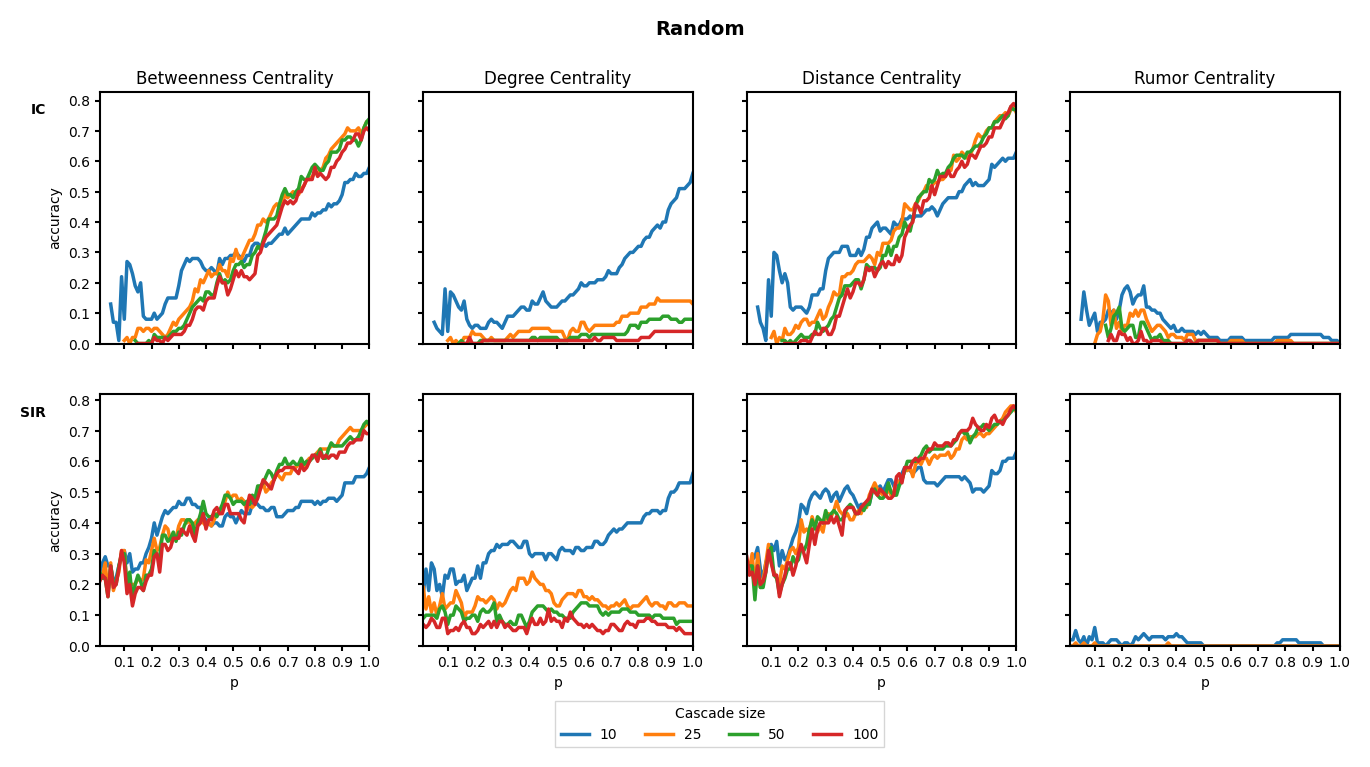
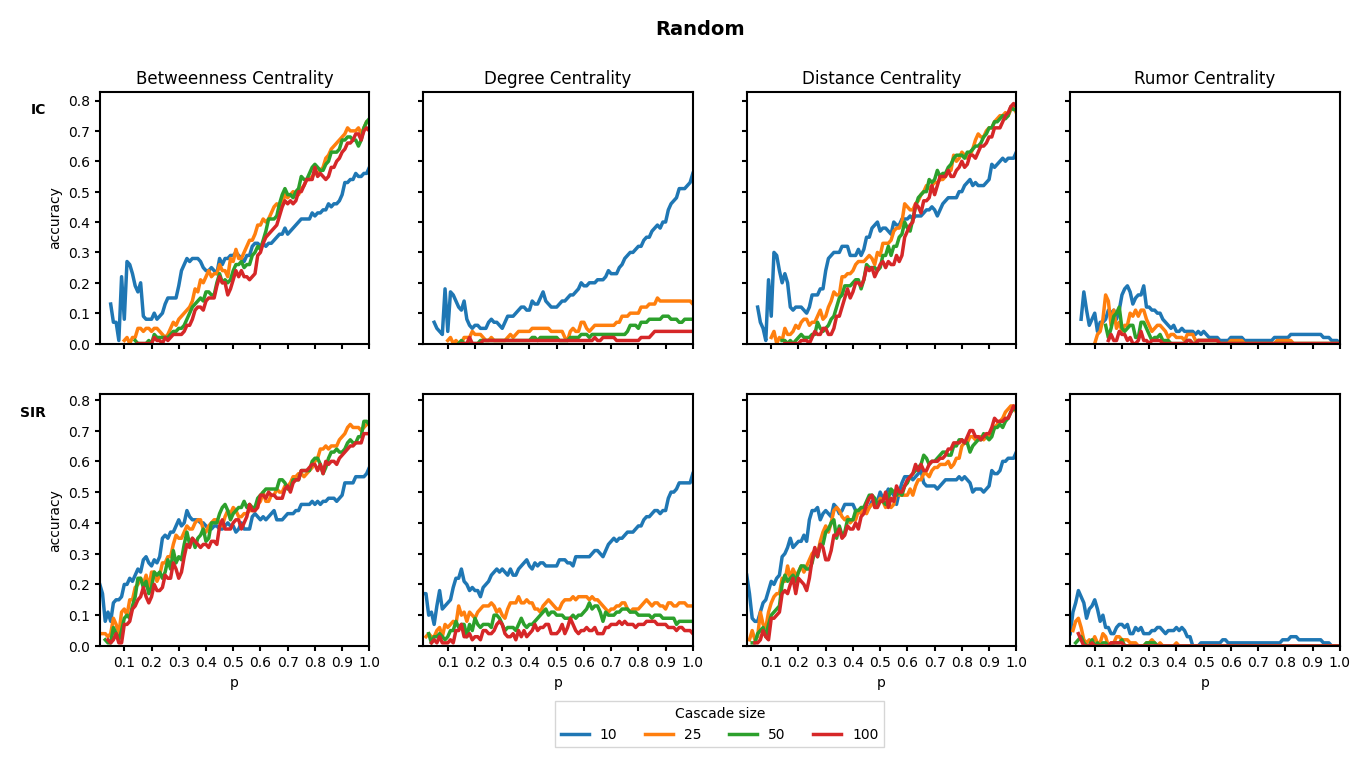
normalize plots

diff --git a/src/patient_zero/experiments/plots.py b/src/patient_zero/experiments/plots.py
@@ -95,9 +95,30 @@ def main():
     ) 
     create_plot(name, index, grouped)
 
+    # Estimate error normalized plots
+    name = "estimate_error_normalized"
+    df["estimate_error_normalized"] = df["estimate_error"] / df["cascade_size_limit"].astype(float)
+    grouped = (
+        df.groupby(["graph_type", "model", "cascade_size_limit", "p_infect", "centrality"])[name]
+        .mean()
+        .reset_index(name=index)
+    ) 
+    create_plot(name, index, grouped)
+
     # Rank plots
     name = "rank"
     index = f"avg_{name}"
+    grouped = (
+        df.groupby(["graph_type", "model", "cascade_size_limit", "p_infect", "centrality"])[name]
+        .mean()
+        .reset_index(name=index)
+    ) 
+    create_plot(name, index, grouped)
+
+    # Rank normalized plots
+    name = "rank_normalized"
+    index = f"avg_{name}"
+    df["rank_normalized"] = df["rank"] / df["cascade_size_limit"].astype(float)
     grouped = (
         df.groupby(["graph_type", "model", "cascade_size_limit", "p_infect", "centrality"])[name]
         .mean()

diff --git a/src/patient_zero/experiments/centrality.py b/src/patient_zero/experiments/centrality.py
@@ -80,7 +80,7 @@ def rumor_centrality(cascade: nx.Graph) -> dict[int, float]:
 
         # math.lgamma(n+1) = log(n!). log(A/B) is the same as log(A) - log(B)
         scores = {}
-        scores[root] = math.lgamma(n + 1) - log_prod[root]
+        scores[root] = math.lgamma(n + 1) - log_prod[root] # or just -log_prod[root]
 
         if is_tree_graph:
             # Propagate scores down the tree
